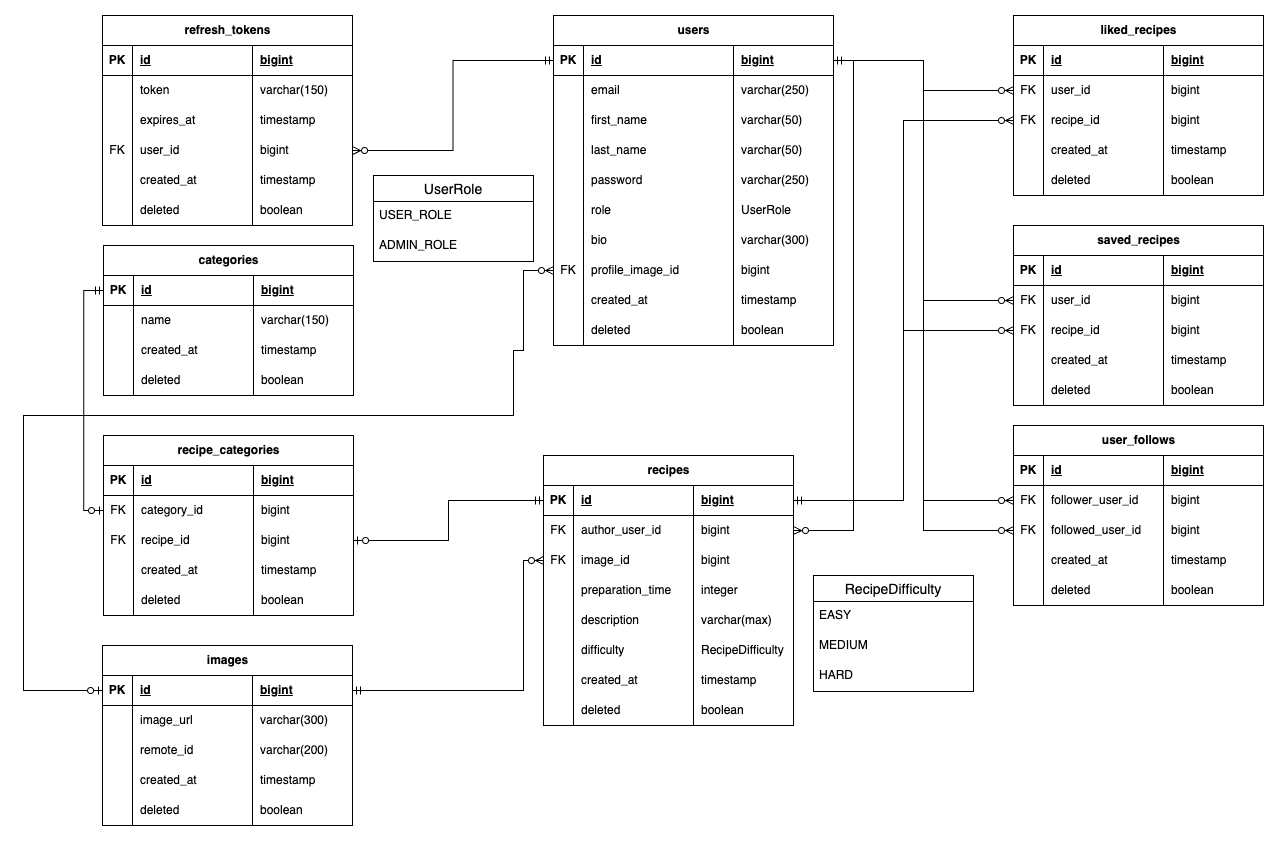
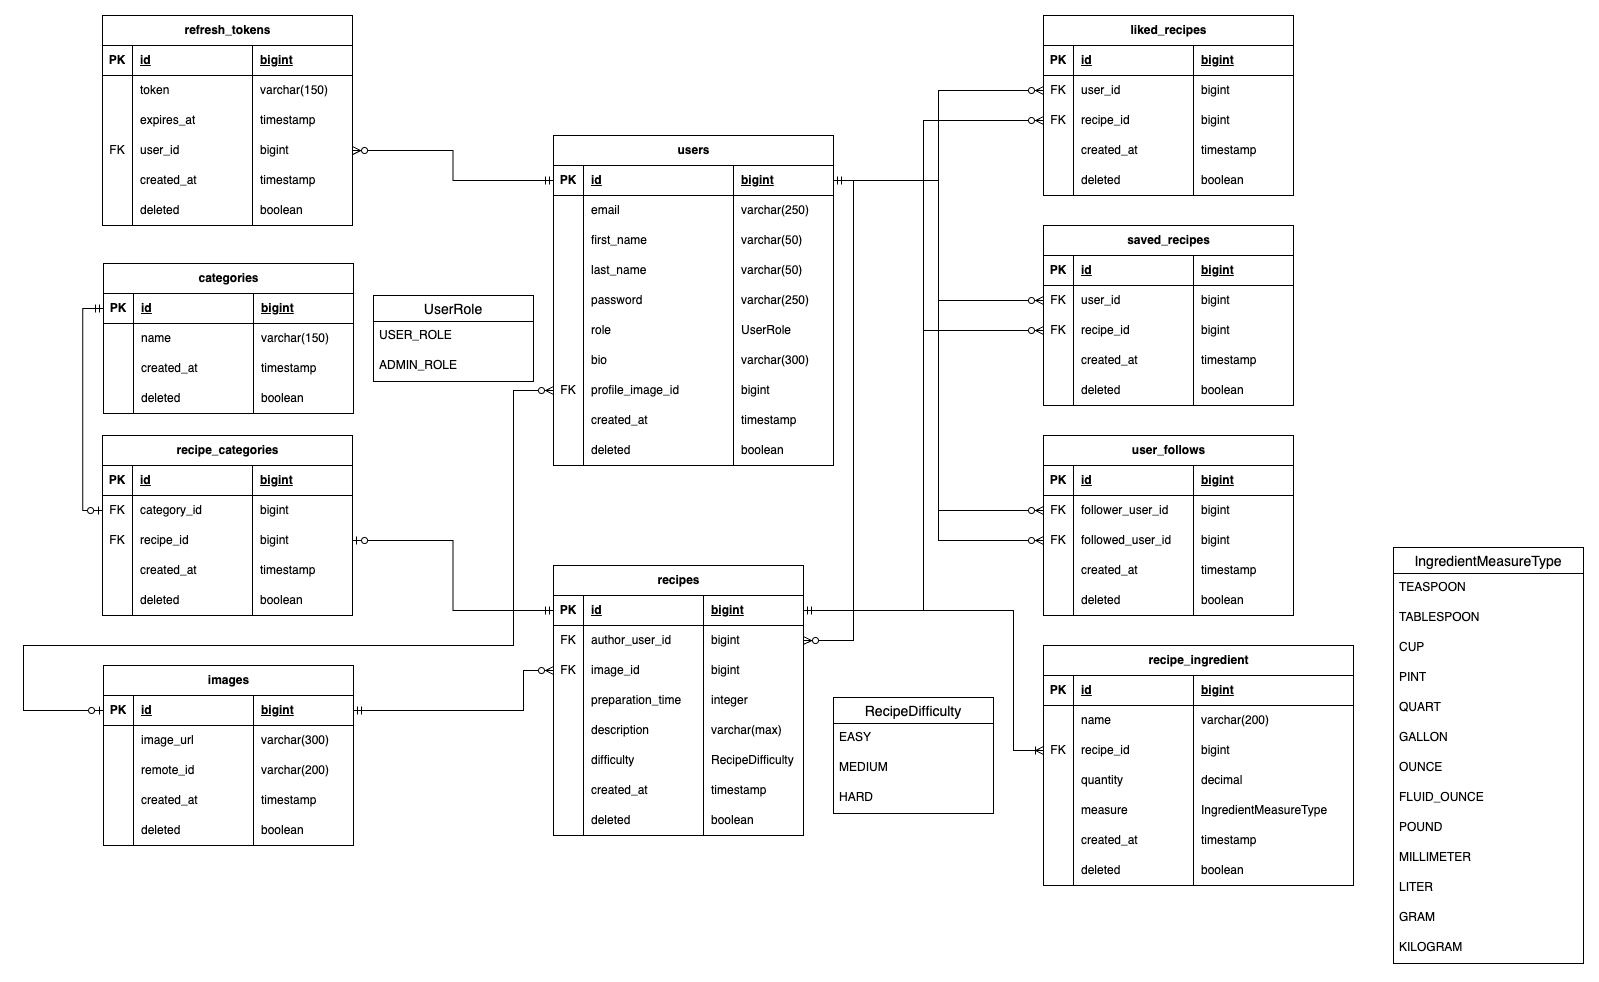
Add recipe ingredients

diff --git a/src/main/java/com/neobis/cookscorner/model/RecipeIngredient.java b/src/main/java/com/neobis/cookscorner/model/RecipeIngredient.java
@@ -1,0 +1,49 @@
+package com.neobis.cookscorner.model;
+
+import com.neobis.cookscorner.enums.IngredientMeasureType;
+import jakarta.persistence.*;
+import lombok.Getter;
+import lombok.NoArgsConstructor;
+import lombok.Setter;
+import lombok.ToString;
+
+import java.util.Objects;
+
+@Entity
+@Table(name = "recipe_ingredients")
+@Getter
+@Setter
+@NoArgsConstructor
+@ToString(exclude = {"recipe"})
+public class RecipeIngredient extends BaseEntity {
+
+    @Column(nullable = false)
+    private Double quantity;
+
+    @Enumerated(EnumType.STRING)
+    @Column(nullable = false)
+    private IngredientMeasureType measure;
+
+    @ManyToOne
+    @JoinColumn(name = "recipe_id", nullable = false)
+    private Recipe recipe;
+
+    public RecipeIngredient(Double quantity, IngredientMeasureType measure, Recipe recipe) {
+        this.quantity = quantity;
+        this.measure = measure;
+        this.recipe = recipe;
+    }
+
+    @Override
+    public boolean equals(Object o) {
+        if (this == o) return true;
+        if (o == null || getClass() != o.getClass()) return false;
+        RecipeIngredient that = (RecipeIngredient) o;
+        return Objects.equals(quantity, that.quantity) && measure == that.measure;
+    }
+
+    @Override
+    public int hashCode() {
+        return Objects.hash(quantity, measure);
+    }
+}

diff --git a/src/main/java/com/neobis/cookscorner/model/Recipe.java b/src/main/java/com/neobis/cookscorner/model/Recipe.java
@@ -63,6 +63,21 @@ public class Recipe extends BaseEntity {
     )
     private Set<User> likedByUsers;
 
+    @OneToMany(mappedBy = "recipe")
+    private Set<RecipeIngredient> ingredients;
+
+    public Recipe(
+            Integer preparationTime, String description, RecipeDifficulty difficulty, User author, Image image,
+            Set<Category> categories, Set<RecipeIngredient> ingredients) {
+        this.preparationTime = preparationTime;
+        this.description = description;
+        this.difficulty = difficulty;
+        this.author = author;
+        this.image = image;
+        this.categories = categories;
+        this.ingredients = ingredients;
+    }
+
     @Override
     public boolean equals(Object o) {
         if (this == o) return true;

diff --git a/src/main/java/com/neobis/cookscorner/enums/IngredientMeasureType.java b/src/main/java/com/neobis/cookscorner/enums/IngredientMeasureType.java
@@ -1,0 +1,17 @@
+package com.neobis.cookscorner.enums;
+
+public enum IngredientMeasureType {
+    TEASPOON,
+    TABLESPOON,
+    CUP,
+    PINT,
+    QUART,
+    GALLON,
+    OUNCE,
+    FLUID_OUNCE,
+    POUND,
+    MILLIMETER,
+    LITER,
+    GRAM,
+    KILOGRAM,
+}
